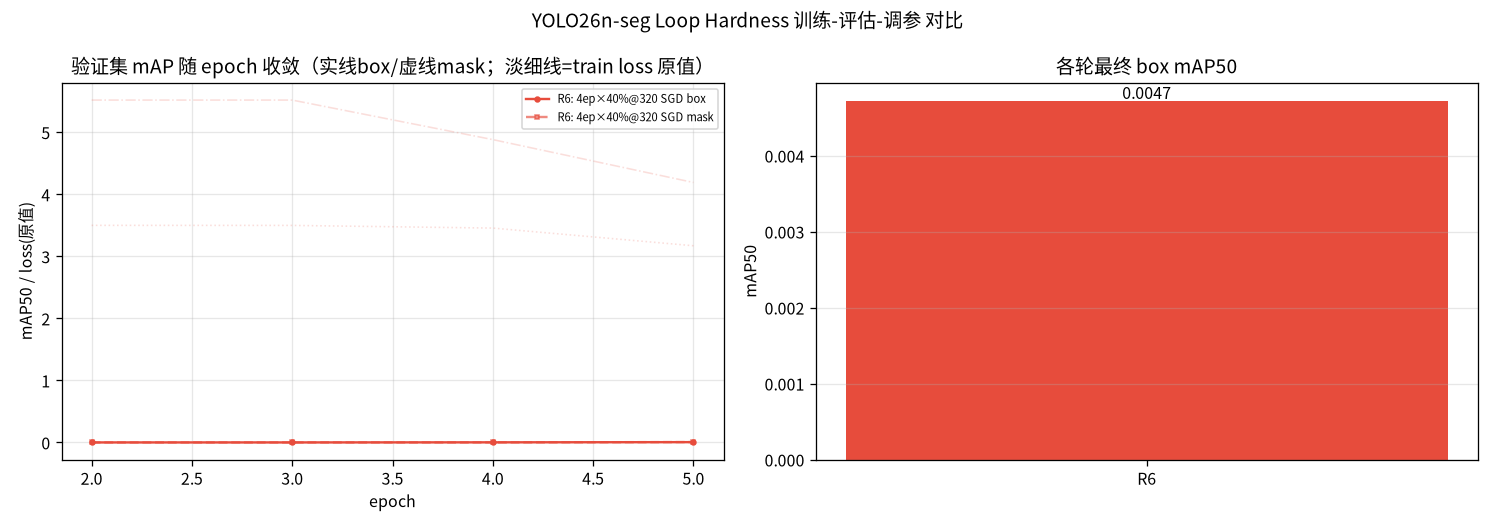
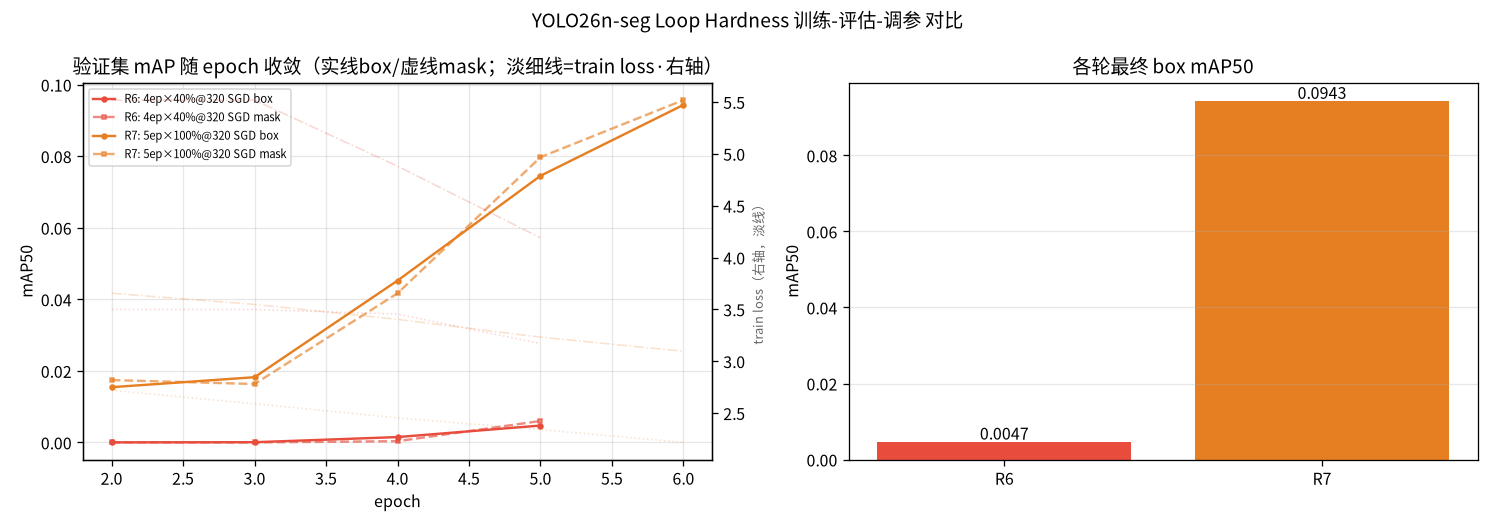
docs(R7_DONE): R6→R7对比曲线重制(双轴修复,box 0.0047→0.0943=20×) + R7逐轮爬坡曲线 + training-history同步

diff --git a/scripts/plot_curves.py b/scripts/plot_curves.py
@@ -69,6 +69,7 @@ def main():
 
     fig, axes = plt.subplots(1, 2, figsize=(13, 4.6))
     summary = []
+    ax2 = axes[0].twinx()   # 训练损失右轴（与 mAP 左轴分离刻度）
     for i, r in enumerate(rounds):
         c = PALETTE[i % len(PALETTE)]
         hdr, rows = r["hdr"], r["rows"]
@@ -86,17 +87,18 @@ def main():
             summary.append((r["label"], box50[-1], mask50[-1] if mask50 else float("nan")))
         if mask50:
             ax.plot(ep, mask50, "--s", ms=3, color=c, alpha=.65, label=f"{r['label']} mask")
-        # loss（细线，右轴太挤则省略）——画在左图淡显
+        # loss（细线画在右轴，与 mAP 分离刻度）
         for key, ls in (("train/box_loss", ":"), ("train/seg_loss", "-.")):
             s = series(key)
             if s:
-                ax.plot(ep, [v * max(box50 or [1]) * 0 + v for v in s], ls, color=c, alpha=.18, lw=1)
+                ax2.plot(ep, s, ls, color=c, alpha=.22, lw=1)
 
-    axes[0].set_title("验证集 mAP 随 epoch 收敛（实线box/虚线mask；淡细线=train loss 原值）")
+    axes[0].set_title("验证集 mAP 随 epoch 收敛（实线box/虚线mask；淡细线=train loss·右轴）")
     axes[0].set_xlabel("epoch")
-    axes[0].set_ylabel("mAP50 / loss(原值)")
-    axes[0].legend(fontsize=7)
+    axes[0].set_ylabel("mAP50")
+    axes[0].legend(fontsize=7, loc="upper left")
     axes[0].grid(alpha=.3)
+    ax2.set_ylabel("train loss（右轴，淡线）", fontsize=8, alpha=.6)
 
     names = [s[0] for s in summary]
     bars = axes[1].bar(range(len(summary)), [s[1] for s in summary],
